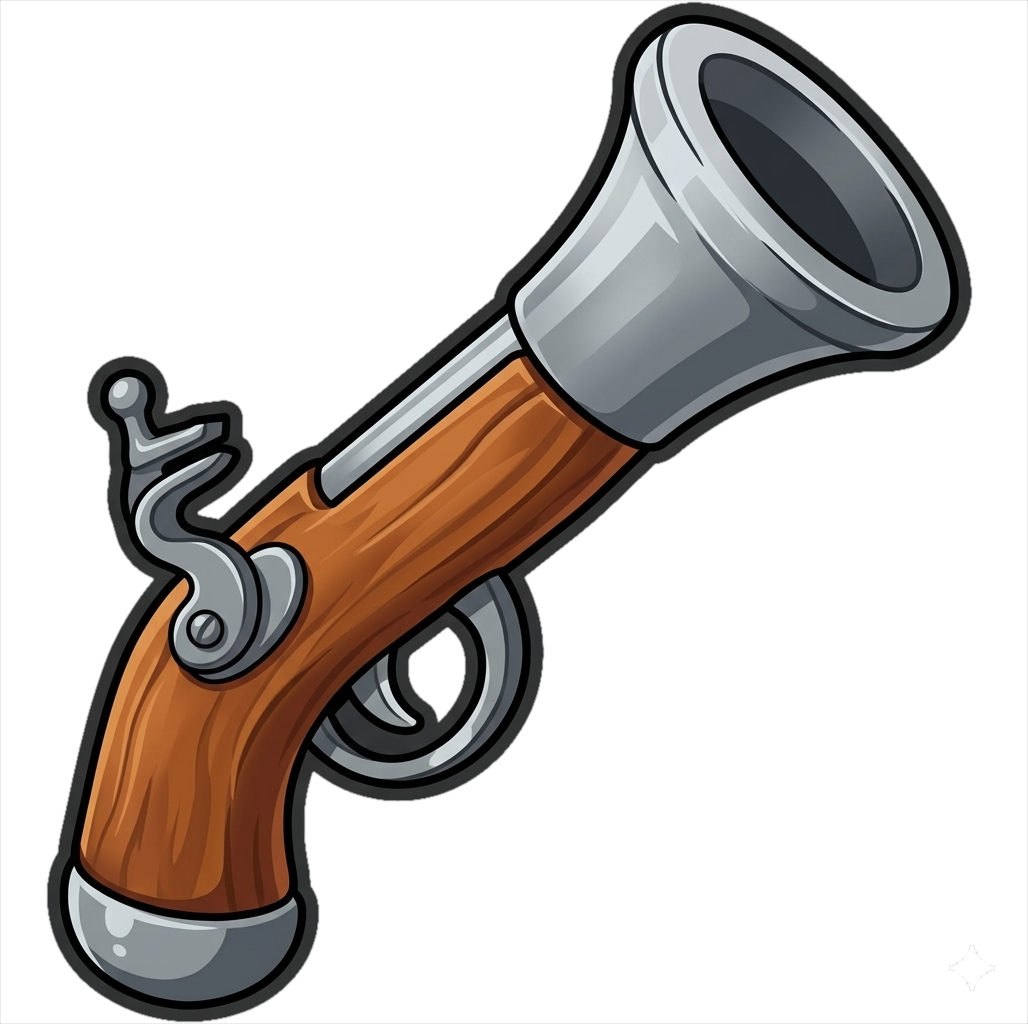
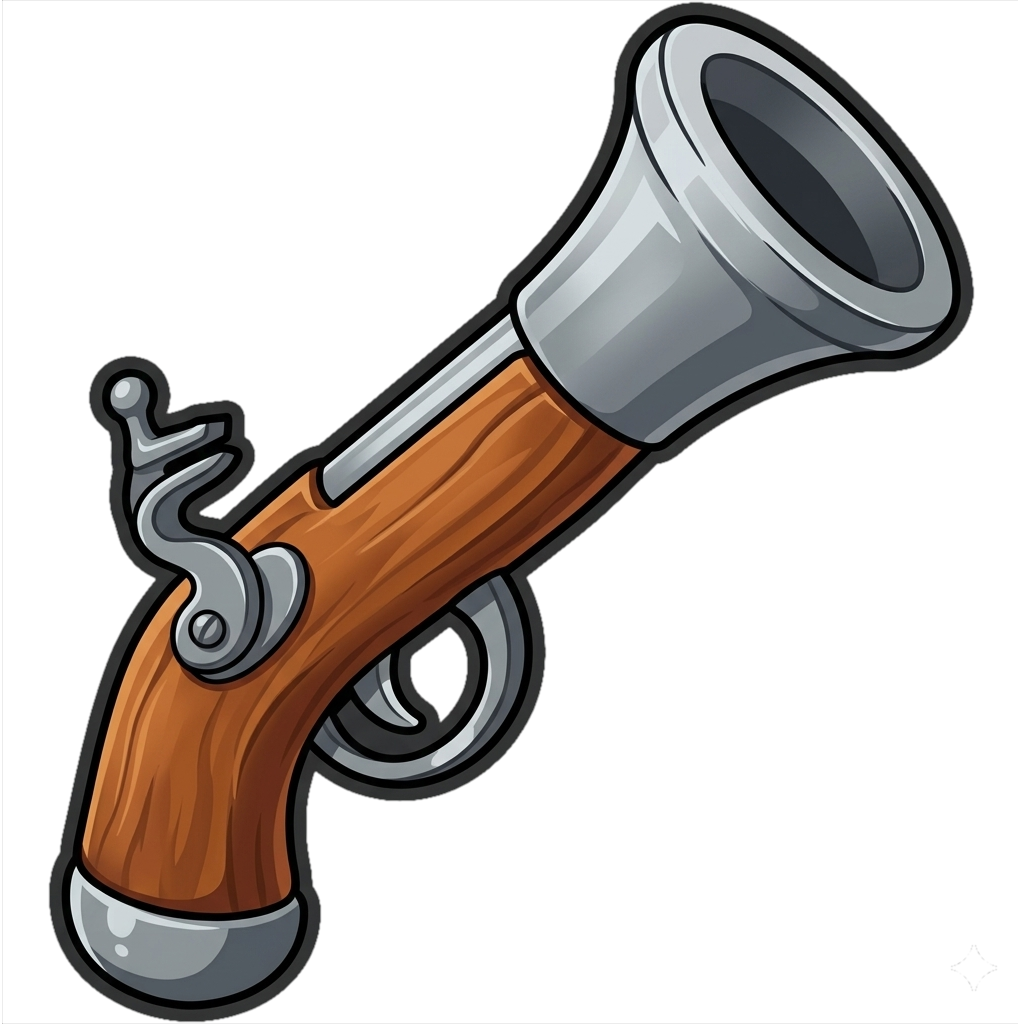
New illustration

diff --git a/deckhand2/2.css b/deckhand2/2.css
@@ -38,8 +38,8 @@ img {
 .card .inner {
     position: relative;
     overflow: hidden;
-    width: 69.24972972972974mm;
-    height: 94.2mm;
+    width: 69mm;
+    height: 94mm;
     /* margin-left: -2.843mm;
     margin-top: -2.7mm; */
 }
@@ -455,7 +455,7 @@ img {
 }
 
 .work .card .mpc {
-    background-image: url(img/mpc.png);
+    background-image: url(card-template.png);
 }
 
 .no-mask .card .mpc {
@@ -666,8 +666,8 @@ img {
 
 .sign {
     position:absolute;
-    bottom: 21px;
-    right: 21px;
+    bottom: 22px;
+    right: 22px;
     width: 14px;
     height: 14px;
     display: flex;

diff --git a/deckhand2/cards.en.js b/deckhand2/cards.en.js
@@ -752,7 +752,7 @@ var cards = [
         "discard": ['p'],
         "title": "Glimmer of Riches",
         "cost": ['h', 'h', 'c'],
-        "img": "cards/60.jpg",
+        "img": "cards/60.png",
         "banners": ['helm-banner'],
         // "production": ['h'],
         "extra": ['telescope', 'draw-2'],
